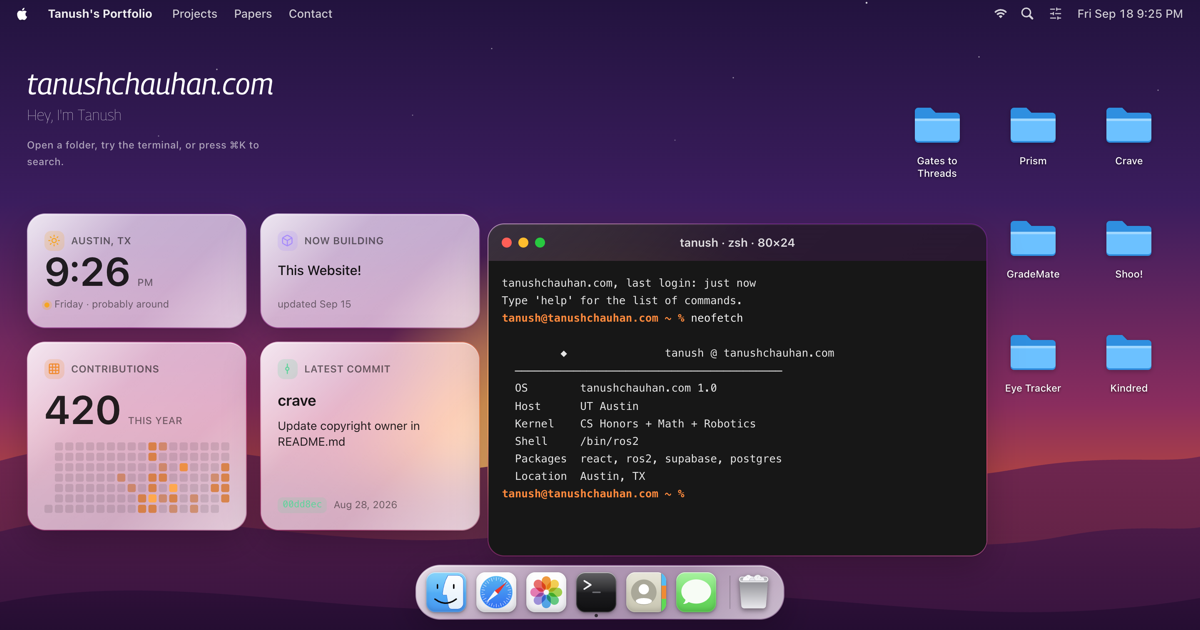
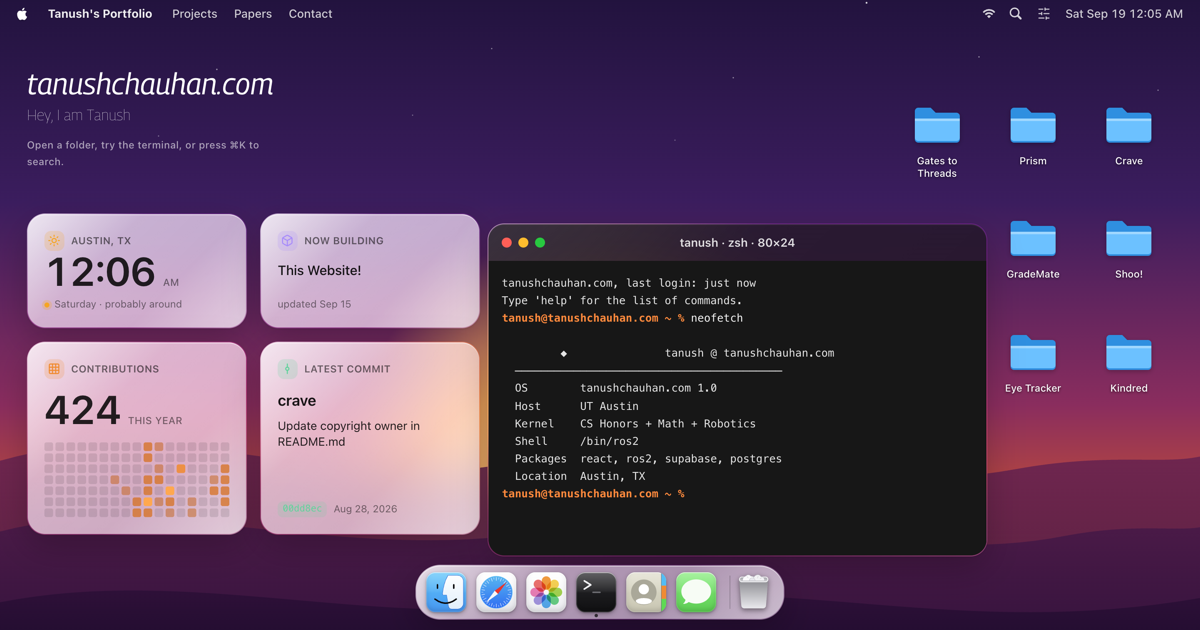
Restore the greeting and first-person text, and drop the code line from About Me

diff --git a/src/constants/index.js b/src/constants/index.js
@@ -629,12 +629,12 @@ export const locations = {
         position: "top-4 left-4",
         data: {
           name: "about-me.txt",
-          subtitle: "Hey, I'm Tanush",
+          subtitle: "Hey, I am Tanush",
           image: "/images/me.jpg",
           portrait: true,
           description: [
-            "I'm a CS Honors + Math double major at UT Austin (Dean's Scholars), minoring in Robotics. I like building things that have to work in the physical world, where a lot of the hard problems turn out not to be in the code.",
-            "Right now I'm an undergraduate researcher at the Autonomous Mobile Robotics Lab, tracking people in 3D across six synchronized cameras with ROS2 and NVIDIA DeepStream.",
+            "I am a CS Honors + Math double major at UT Austin (Dean's Scholars), minoring in Robotics. I build things that have to work in the physical world.",
+            "Right now I am an undergraduate researcher at the Autonomous Mobile Robotics Lab, tracking people in 3D across six synchronized cameras with ROS2 and NVIDIA DeepStream.",
             "On campus I build with Texas Convergent and work on Longhorn Racing, and I used to coordinate the Agentic AI DiRP.",
             "tanush@utexas.edu",
           ],
@@ -652,8 +652,8 @@ export const locations = {
           subtitle: "Things my résumé does not say",
           description: [
             "I love exploring Austin. Most of my good ideas have come from random walks near campus with no destination in mind.",
-            "I watch a lot of anime and I'm always open to recommendations. My all-time favorites are Attack on Titan and Jujutsu Kaisen.",
-            "I really like cooking. There are a few recipes I've been refining for years, but most nights I still get my ideas from YouTube and Instagram.",
+            "I watch a lot of anime and I am always open to recommendations. All time favorites are Attack on Titan and Jujutsu Kaisen.",
+            "I really like cooking. A few recipes I have iterated on for years, but most nights I am still getting my inspiration from YouTube and Instagram.",
             "I play intramural volleyball, with more enthusiasm than technique.",
           ],
         },
@@ -704,7 +704,7 @@ export const locations = {
             '  <img src="me.jpg" align="right" />',
             "  <p>Here are my projects. Please consider me.</p>",
             "</html>",
-            "It worked. It was also the last time I kept a website simple.",
+            "It worked. Nobody stayed longer than nine seconds.",
           ],
         },
       },

diff --git a/src/components/Welcome.jsx b/src/components/Welcome.jsx
@@ -77,7 +77,7 @@ const Welcome = () => {
         {renderText("tanushchauhan.com", "text-4xl italic font-georama", 400)}
       </h1>
       <p ref={subtitleRef} className="mt-1 text-white/90">
-        {renderText("Hey, I'm Tanush", "text-lg font-georama", 100)}
+        {renderText("Hey, I am Tanush", "text-lg font-georama", 100)}
       </p>
       {/* It tells you what to do. It used to open by announcing that this is an
           operating system and not a website, which the screen has already said

diff --git a/src/components/MobileExperience.jsx b/src/components/MobileExperience.jsx
@@ -431,7 +431,7 @@ const MobileExperience = () => {
         <div className="m-pages" ref={pagesRef} onScroll={onPageScroll}>
           <section className="m-page" ref={homeRef}>
             <div className="m-widget">
-              <p className="hello">Hey, I'm Tanush</p>
+              <p className="hello">Hey, I am Tanush</p>
               <h1>tanushchauhan.com</h1>
               <p className="tagline">
                 CS Honors + Math @ UT Austin · robotics researcher · hackathon regular
